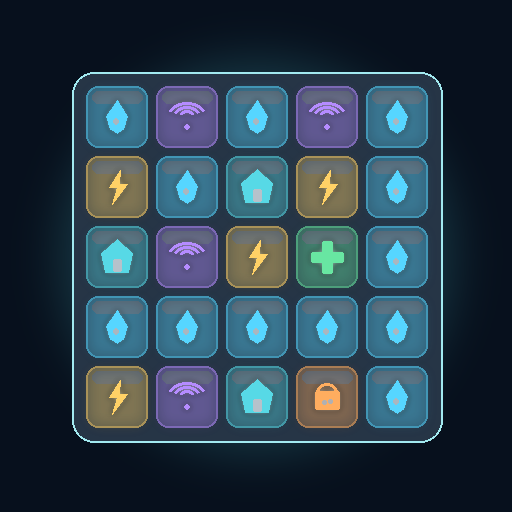
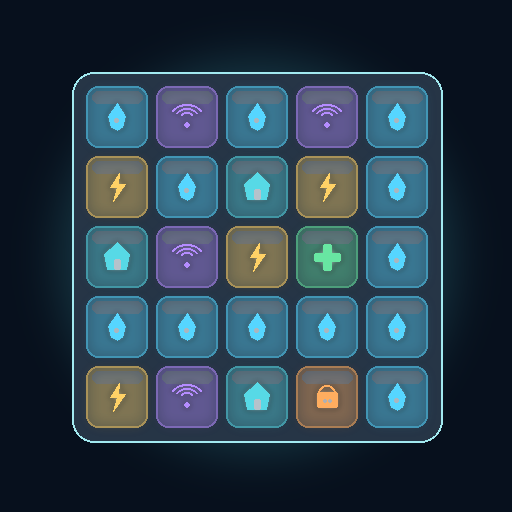
Reduce Supply Shuffle symbol scale

diff --git a/games/supply-shuffle/module.js b/games/supply-shuffle/module.js
@@ -833,7 +833,7 @@ export function mountGame(session, options = {}) {
         ctx.fill();
         ctx.globalAlpha = 1;
 
-        drawTileSymbol(definition.symbol, size, definition.color, definition.accent);
+        drawTileSymbol(definition.symbol, size * 0.82, definition.color, definition.accent);
 
         if (tile.special) {
             drawSpecialMark(tile.special, size, definition.accent);